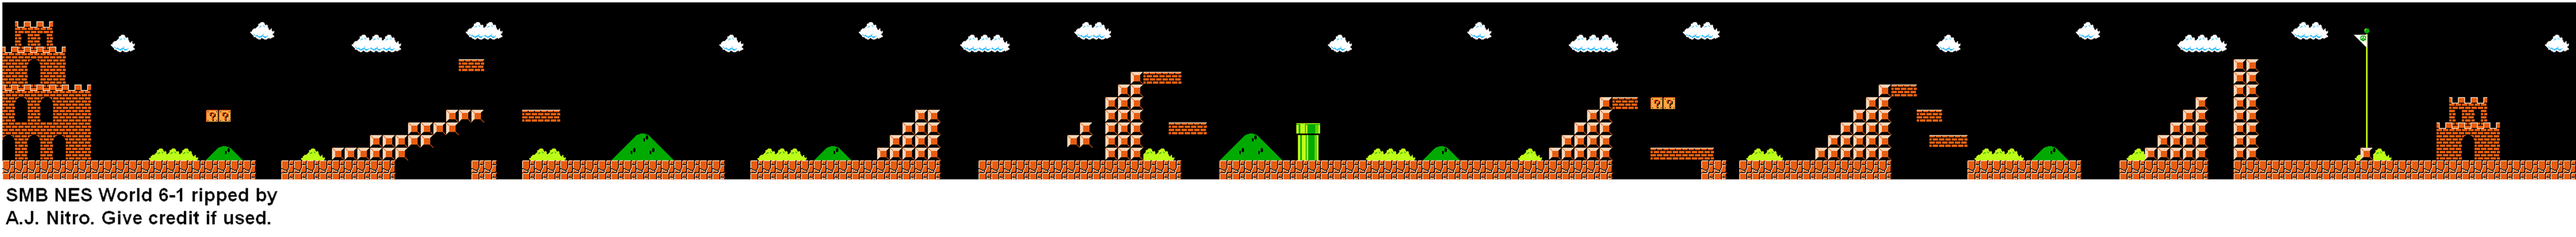
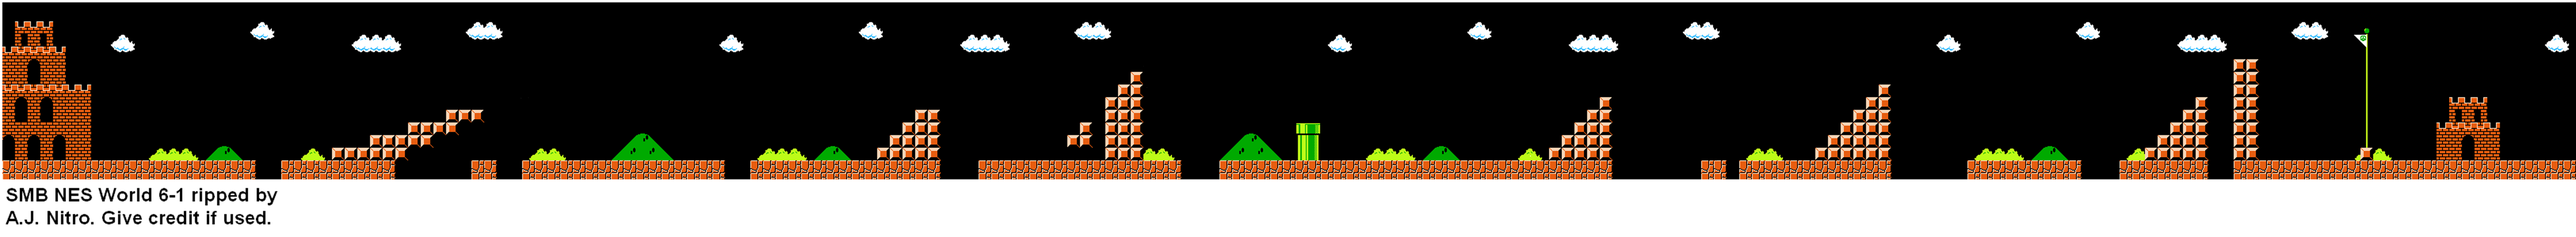
Add World

diff --git a/Source/SuperMario/Scripts/World/World_6_1.js b/Source/SuperMario/Scripts/World/World_6_1.js
@@ -1,0 +1,273 @@
+
+
+World_6_1 = ClassFactory.createClass(World, {
+    init: function () {
+        World.init.call(this);
+
+        this.setSize(10275, 448);
+        this.setBackgroundImage(Const.IMAGE_WORLD_6_1);
+        this.setBackgroundPosition(6, 6);
+        this.setPosition(0, 0);
+        this.show();
+
+        this.scrollable = true;
+        this.setTitle("World  6-1");
+    },
+    scroll: function () {
+        if (!this.scrollable) {
+            return;
+        }
+
+        if (Math.abs(this.x) >= 5184 && this.lakitu.active) {
+            this.lakitu.active = false;
+            this.lakitu.setCollidable(false, false, false, false);
+            this.lakitu.state = LakituState.None;
+            this.lakitu.sprite.hide();
+        }
+
+        if (Math.abs(this.x) >= 5984) {
+            return;
+        }
+
+        if (this.mario.x - Math.abs(this.x) > 220) {
+            this.setX(this.x - (this.mario.jumping ? this.mario.speed + 1 : this.mario.speed));
+        }
+    },
+    build: function () {
+        var gameUI = this;
+
+        this.mario.addToGameUI(gameUI);
+        this.mario.setPosition(84, 400 - this.mario.height);
+
+        this.lakitu = new Lakitu(768, 48);
+        this.lakitu.active = true;
+        this.lakitu.addToGameUI(gameUI);
+        
+        var floor_0_400 = new Block(0, 400, 640, 48);
+        floor_0_400.addToGameUI(gameUI);
+
+        for (var i = 0; i < 2; i++) {
+            var question = new Question(514 + 32 * i, 272, QuestionItemType.Gold, QuestionDisplayType.Question, GameObjectIconType.Ground);
+            question.addToGameUI(gameUI);
+        }
+
+        var floor_704_400 = new Block(704, 400, 288, 48);
+        floor_704_400.addToGameUI(gameUI);
+
+        var iron_832_368 = new Block(832, 368, 192, 32);
+        iron_832_368.addToGameUI(gameUI);
+
+        var iron_928_336 = new Block(928, 336, 160, 32);
+        iron_928_336.addToGameUI(gameUI);
+
+        var iron_1024_304 = new Block(1024, 304, 128, 32);
+        iron_1024_304.addToGameUI(gameUI);
+
+        var iron_1120_272 = new Block(1120, 272, 96, 32);
+        iron_1120_272.addToGameUI(gameUI);
+
+        var question_1152_144 = new Question(1152, 144, QuestionItemType.BigMushroom, QuestionDisplayType.Brick, GameObjectIconType.Ground);
+        question_1152_144.addToGameUI(gameUI);
+
+        var brick_1184_144 = new Brick(1184, 144, GameObjectIconType.Ground);
+        brick_1184_144.addToGameUI(gameUI);
+
+        var floor_1184_400 = new Block(1184, 400, 64, 48);
+        floor_1184_400.addToGameUI(gameUI);
+
+        for (var i = 0; i < 2; i++) {
+            var brick = new Brick(1312 + 32 * i, 272, GameObjectIconType.Ground);
+            brick.addToGameUI(gameUI);
+        }
+
+        var question_1376_272 = new Question(1376, 272, QuestionItemType.MultiGold, QuestionDisplayType.Brick, GameObjectIconType.Ground);
+        question_1376_272.setCollideCount(8);
+        question_1376_272.addToGameUI(gameUI);
+
+        var floor_1312_400 = new Block(1312, 400, 512, 48);
+        floor_1312_400.addToGameUI(gameUI);
+
+        var floor_1888_400 = new Block(1888, 400, 480, 48);
+        floor_1888_400.addToGameUI(gameUI);
+
+        for (var i = 0; i < 3; i++) {
+            var gold = new Gold2(1984 + 32 * i, 272, GameObjectIconType.Ground);
+            gold.addToGameUI(gameUI);
+        }
+
+        for (var i = 0; i < 5; i++) {
+            var iron = new Block(2208 + 32 * i, 400 - 32 * Math.min(i + 1, 4), 32, 32 * Math.min(i + 1, 4));
+            iron.addToGameUI(gameUI);
+        }
+
+        for (var i = 0; i < 2; i++) {
+            var gold = new Gold2(2432 + 32 * i, 208, GameObjectIconType.Ground);
+            gold.addToGameUI(gameUI);
+        }
+
+        var floor_2464_400 = new Block(2464, 400, 512, 48);
+        floor_2464_400.addToGameUI(gameUI);
+
+        var iron_2688_336 = new Block(2688, 336, 64, 32);
+        iron_2688_336.addToGameUI(gameUI);
+
+        var iron_2720_304 = new Block(2720, 304, 32, 32);
+        iron_2720_304.addToGameUI(gameUI);
+
+        var iron_2784_240 = new Block(2784, 240, 96, 160);
+        iron_2784_240.addToGameUI(gameUI);
+
+        var iron_2816_208 = new Block(2816, 208, 64, 32);
+        iron_2816_208.addToGameUI(gameUI);
+
+        var iron_2848_176 = new Block(2848, 176, 32, 32);
+        iron_2848_176.addToGameUI(gameUI);
+
+        for (var i = 0; i < 3; i++) {
+            var brick = new Brick(2880 + 32 * i, 176, GameObjectIconType.Ground);
+            brick.addToGameUI(gameUI);
+        }
+
+        for (var i = 0; i < 3; i++) {
+            var brick = new Brick(2944 + 32 * i, 304, GameObjectIconType.Ground);
+            brick.addToGameUI(gameUI);
+        }
+
+        var floor_3072_400 = new Block(3072, 400, 992, 48);
+        floor_3072_400.addToGameUI(gameUI);
+
+        var tube_3264_304 = new Block(3264, 304, 64, 96);
+        tube_3264_304.addToGameUI(gameUI);
+
+        for (var i = 0; i < 3; i++) {
+            var gold = new Gold2(3392 + 32 * i, 240, GameObjectIconType.Ground);
+            gold.addToGameUI(gameUI);
+        }
+
+        for (var i = 0; i < 5; i++) {
+            var iron = new Block(3904 + 32 * i, 400 - 32 * (i + 1), 32, 32 * (i + 1));
+            iron.addToGameUI(gameUI);
+        }
+
+        for (var i = 0; i < 2; i++) {
+            var brick = new Brick(4064 + 32 * i, 240, GameObjectIconType.Ground);
+            brick.addToGameUI(gameUI);
+        }
+
+        var question_4160_240 = new Question(4160, 240, QuestionItemType.BigMushroom, QuestionDisplayType.Question, GameObjectIconType.Ground);
+        question_4160_240.addToGameUI(gameUI);
+
+        var question_4192_240 = new Question(4192, 240, QuestionItemType.Gold, QuestionDisplayType.Question, GameObjectIconType.Ground);
+        question_4192_240.addToGameUI(gameUI);
+
+        for (var i = 0; i < 5; i++) {
+            var brick = new Brick(4160 + 32 * i, 368, GameObjectIconType.Ground);
+            brick.addToGameUI(gameUI);
+        }
+
+        var floor_4288_400 = new Block(4288, 400, 64, 48);
+        floor_4288_400.addToGameUI(gameUI);
+
+        var floor_4384_400 = new Block(4384, 400, 384, 48);
+        floor_4384_400.addToGameUI(gameUI);
+
+        for (var i = 0; i < 6; i++) {
+            var iron = new Block(4576 + 32 * i, 400 - 32 * (i + 1), 32, 32 * (i + 1));
+            iron.addToGameUI(gameUI);
+        }
+
+        for (var i = 0; i < 3; i++) {
+            var brick = new Brick(4768 + 32 * i, 208, GameObjectIconType.Ground);
+            brick.addToGameUI(gameUI);
+        }
+
+        for (var i = 0; i < 2; i++) {
+            var brick = new Brick(4832 + 32 * i, 272, GameObjectIconType.Ground);
+            brick.addToGameUI(gameUI);
+        }
+
+        for (var i = 0; i < 3; i++) {
+            var brick = new Brick(4864 + 32 * i, 336, GameObjectIconType.Ground);
+            brick.addToGameUI(gameUI);
+        }
+
+        var floor_4960_400 = new Block(4960, 400, 288, 48);
+        floor_4960_400.addToGameUI(gameUI);
+
+        var floor_5344_400 = new Block(5344, 400, 224, 48);
+        floor_5344_400.addToGameUI(gameUI);
+
+        for (var i = 0; i < 5; i++) {
+            var iron = new Block(5408 + 32 * i, 400 - 32 * (i + 1), 32, 32 * (i + 1));
+            iron.addToGameUI(gameUI);
+        }
+
+        var floor_5632_400 = new Block(5632, 400, 864, 48);
+        floor_5632_400.addToGameUI(gameUI);
+
+        var iron_5632_144 = new Block(5632, 144, 64, 256);
+        iron_5632_144.addToGameUI(gameUI);
+
+        var block_6400_368 = new Block(5952, 368, 32, 32);
+        block_6400_368.addToGameUI(gameUI);
+
+        var flag = new Block(5952 + 12, 66, 8, 303);
+        flag.addToGameUI(gameUI);
+        flag.attachCollidesLeft(function (gameObject) {
+            if (gameObject instanceof MarioBors) {
+                this.setCollidable(false, false, false, false);
+                this.gameUI.end();
+            }
+        });
+    },
+    restart: function () {
+
+        var oldX = this.x;
+        this.div.innerHTML = "";
+        this.staticObjects = [];
+        this.animateObjects = [];
+        this.build();
+        
+        this.mario.reborn();
+
+        if (Math.abs(oldX) >= 2848) {
+            this.setX(-3080);
+            this.mario.setPosition(3168, 400 - this.mario.height);
+        } else {
+            this.setX(0);
+            this.mario.setPosition(84, 400 - this.mario.height);
+        }
+
+        this.lakitu.active = true;
+        this.lakitu.setPosition(this.mario.x + 512, 48);
+
+        this.scrollable = true;
+    },
+    onEnd: function () {
+        if (this.mario.moveDown(3)) {
+            if (this.mario.spriteType != MarioSprite.SlideDown) {
+                this.mario.setX(this.mario.x + 5);
+                this.mario.setSprite(MarioSprite.SlideDown);
+                this.mario.sprite.moveToFrame(0);
+            }
+            return;
+        } else {
+            if (this.mario.spriteType != MarioSprite.Move) {
+                this.mario.setSprite(MarioSprite.Move);
+                this.mario.moving = true;
+                this.mario.movingToLeft = true;
+                this.mario.setX(this.mario.x + 32);
+                this.mario.sprite.setFrameCounter(2);
+            }
+        }
+        if (this.mario.x < 6208) {
+            this.mario.moveDown(7);
+            this.falling = false;
+            this.mario.moveRight(2);
+            this.mario.sprite.moveToNextFrame();
+        } else {
+            this.state = WorldState.None;
+            alert("To be contiuned......");
+        }
+    },
+});

diff --git a/Source/SuperMario/UI/World_6_1.html b/Source/SuperMario/UI/World_6_1.html
@@ -1,0 +1,53 @@
+<!DOCTYPE html>
+<html xmlns="http://www.w3.org/1999/xhtml">
+<head>
+    <meta http-equiv="Content-Type" content="text/html; charset=utf-8" />
+    <title>SuperMario World 3-1</title>
+    <style>
+        * {
+            margin: 0 auto;
+            padding: 0;
+        }
+
+        #app {
+            margin-top: 100px;
+            width: 512px;
+            height: 448px;
+            position: relative;
+            background: #000000;
+            overflow: hidden;
+        }
+    </style>
+</head>
+<body style="background: #DFDFDF;">
+    <div id="app"></div>
+    <script src="../Scripts/Object/BaseScript.js"></script>
+    <script src="../Scripts/World/World.js"></script>
+    <script src="../Scripts/World/World_6_1.js"></script>
+    <script type="text/javascript">
+
+        var app = document.getElementById("app");
+
+        var gameUI = new GameUI();
+        gameUI.setSize(Const.SCREEN_WIDTH, Const.SCREEN_HEIGHT);
+        gameUI.show();
+        gameUI.appendTo(app);
+
+        gameUI.setMario(new MarioBors(0, 0));
+
+        var world = new World_6_1();
+        world.addToGameUI(gameUI);
+        
+        //setTimeout(function () {
+        //    world.mario.setType(MarioType.Flower);
+        //    world.mario.setPosition(6000, 10);
+        //    world.setPosition(-5800, 0);
+        //}, 2000);
+        
+        setInterval(function () {
+            gameUI.update();
+        }, 16);
+
+    </script>
+</body>
+</html>

diff --git a/Source/SuperMario/Scripts/World/World_5_4.js b/Source/SuperMario/Scripts/World/World_5_4.js
@@ -12,6 +12,9 @@ World_5_4 = ClassFactory.createClass(World, {
 
         this.scrollable = true;
         this.setTitle("World  5-4");
+
+        ImageLoader.load(this, [Const.IMAGE_WORLD_6_1]);
+        ScriptLoader.load(this, [Const.SCRIPT_WORLD_6_1]);
     },
     scroll: function () {
         if (!this.scrollable) {
@@ -225,6 +228,8 @@ World_5_4 = ClassFactory.createClass(World, {
         x.setStoppable(true);
         x.attachCollides(function (gameObject) {
             if (gameObject instanceof MarioBors) {
+                var world = new World_6_1();
+                this.gameUI.gameUI.setWorld(world);
             }
         });
         x.addToGameUI(gameUI);

diff --git a/Source/SuperMario/Scripts/World/World_5_3.js b/Source/SuperMario/Scripts/World/World_5_3.js
@@ -11,6 +11,9 @@ World_5_3 = ClassFactory.createClass(World, {
         
         this.setTitle("World  5-3");
         this.scrollable = true;
+
+        ImageLoader.load(this, [Const.IMAGE_WORLD_5_4]);
+        ScriptLoader.load(this, [Const.SCRIPT_WORLD_5_4]);
     },
     scroll: function () {
         if (!this.scrollable) {
@@ -285,7 +288,8 @@ World_5_3 = ClassFactory.createClass(World, {
             this.mario.sprite.moveToNextFrame();
         } else {
             this.state = WorldState.None;
-            alert("To be countinue......");
+            var world = new World_5_4();
+            this.gameUI.setWorld(world);
         }
     }
 });
